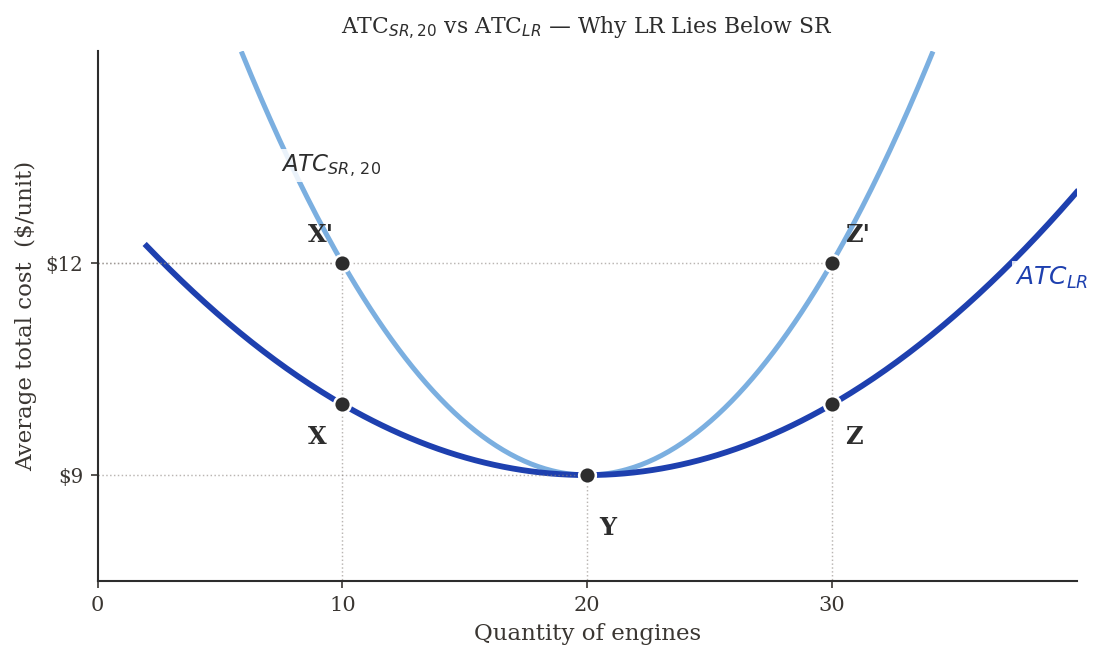
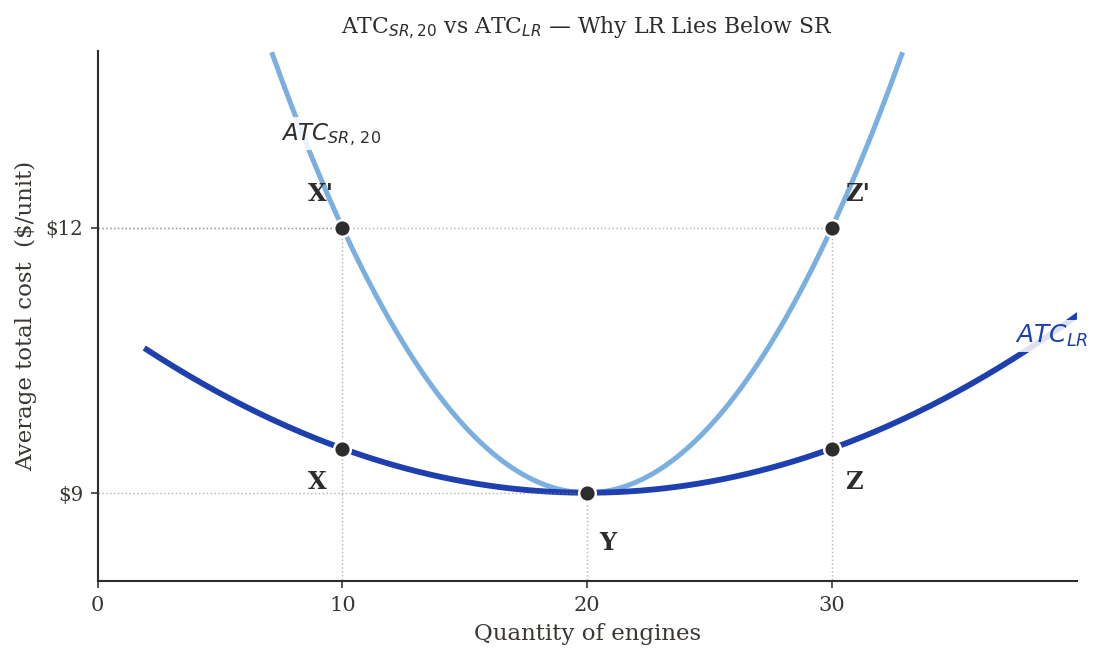
ch08: replicate Goolsbee 7.8 ATC envelope + add new 7.9 MC family slide
Unified the ATC family across slides 51 / 52 / 54 to one consistent set
of cost functions:

  ATC_LR(Q)   = 0.005·(Q - 20)^2 + 9
  ATC_SR,k(Q) = ATC_LR(k) + 0.01·(k - 20)·(Q - k) + 0.03·(Q - k)^2
  TC_LR(Q)    = 0.005·Q^3 - 0.2·Q^2 + 11·Q
  MC_LR(Q)    = 0.015·Q^2 - 0.4·Q + 11

Slide 51 (ATC_SR,20 vs ATC_LR): X / Z now at $9.5 (matching new reference).
Slide 52 (full envelope): X / Z at $9.5, X' / Z' at $12 with cleaner labels
and dashed grid at $9 / $12; ATC_LR is now the gentle U from the
textbook's Figure 7.8 reference.
NEW slide 54 (sr-lr-mc-figure): adds Figure 7.9 — three green SR-MC
curves crossing the red MC_LR at their planning Q's (10, 20, 30),
overlaid on the same ATC family. Marked points: A=(10,$8.5),
Y=(20,$9) (= ATC_LR min crossing), B=(30,$12.5).

Section count: 62 / 62 (was 61).

diff --git a/econ2316/ch08-costs-of-production/index.html b/econ2316/ch08-costs-of-production/index.html
@@ -1703,6 +1703,34 @@
   <aside class="notes">The MC analog of the previous slide. SR-MC rises steeply because of diminishing marginal product of labor (the fixed K̄ acts as a binding constraint). LR-MC rises more gently because the firm can scale BOTH inputs proportionally, sidestepping the diminishing-MP_L trap. Graphically: SR-MC curve is steeper than LR-MC, and the two cross at the firm's planning output (where the firm's K̄ matches the LR-optimal K). For Cobb-Douglas CRS, LR-MC is FLAT (constant returns); for DRS, LR-MC rises slowly; for IRS, LR-MC may even FALL.</aside>
 </section>
 
+<!-- ===== NEW — Figure 7.9: Long-Run and Short-Run Marginal Costs ===== -->
+<section id="sr-lr-mc-figure">
+  <h2><i class="fa-solid fa-chart-line" style="color: var(--accent-color);"></i> Long-Run and Short-Run Marginal Costs</h2>
+  <div style="display: grid; grid-template-columns: 1.55fr 0.95fr; gap: 16px; align-items: center;">
+    <div style="text-align: center;">
+      <img alt="Average cost and marginal cost vs quantity of engines. Light-blue U-shaped ATC_SR,10, ATC_SR,20, ATC_SR,30 curves sit above the dark-blue U-shaped ATC_LR envelope. Green U-shaped MC_SR,10, MC_SR,20, MC_SR,30 curves each rise steeply and cross the red MC_LR curve at Q = 10, 20, 30 respectively. Marked points: A at (10, $8.5) on MC_LR, Y at (20, $9) where MC_LR equals ATC_LR minimum, B at (30, $12.5) on MC_LR. Y-axis ticks at $9 and $12."
+           src="figures/fig-engines-mc-family.png"
+           class="figure" style="max-height: 440px;">
+    </div>
+    <div>
+      <p style="font-size: 12.5pt; line-height: 1.5; margin: 0 0 8px;">
+        Layered on the ATC envelope: each \(K\!\bar{}\,\) gives a SR-MC curve that <strong>crosses MC<sub>LR</sub> at its planning quantity</strong>.
+      </p>
+      <ul style="font-size: 12pt; line-height: 1.5; margin: 0 0 10px; padding-left: 22px;">
+        <li><strong>A</strong> at \((10,\,\$8.5)\) — MC<sub>LR</sub> below ATC<sub>LR</sub> on its falling stretch.</li>
+        <li><strong>Y</strong> at \((20,\,\$9)\) — MC<sub>LR</sub> crosses ATC<sub>LR</sub> at the LR-ATC <em>minimum</em>.</li>
+        <li><strong>B</strong> at \((30,\,\$12.5)\) — MC<sub>LR</sub> above ATC<sub>LR</sub> on its rising stretch.</li>
+      </ul>
+      <div class="key-result" style="background: #fef3e6; border-left-color: var(--accent-color); margin: 8px 0; padding: 8px 14px;">
+        <p style="margin: 0; font-size: 12pt; line-height: 1.45;">
+          SR-MC curves are <strong>steeper</strong> than MC<sub>LR</sub> — diminishing \(MP_L\) bites once \(\bar K\) is fixed.
+        </p>
+      </div>
+    </div>
+  </div>
+  <aside class="notes">Goolsbee Figure 7.9 — the MC analog of the ATC envelope figure on the previous slide. Light-blue SR-ATC curves and dark-blue LR-ATC are the same family from slide 52 — re-drawn here so the MC story lines up with the AC story. Green SR-MC curves are derived directly from the corresponding SR-TC functions. The red LR-MC curve is the derivative of TC_LR = 0.005·Q³ − 0.2·Q² + 11·Q, giving MC_LR(Q) = 0.015·Q² − 0.4·Q + 11. Key reading: (1) Each green SR-MC crosses the red MC_LR at its planning Q (10, 20, 30) — same place where ATC_SR,k is tangent to ATC_LR. (2) MC_LR crosses ATC_LR at Q = 20, the LR-ATC minimum (standard AC-MC relationship). (3) SR-MC is much steeper than LR-MC because in SR the firm can only adjust L (diminishing MP_L), while in LR it scales both K and L. Pedagogically the three points A, Y, B trace MC_LR's three regimes: below ATC_LR (falling stretch), tangent (min), above ATC_LR (rising stretch).</aside>
+</section>
+
 <!-- ===== Slide 28 — Gigafactory TC envelope (existing) ===== -->
 <section id="sr-lr-envelope-figure">
   <h2><i class="fa-solid fa-chart-area" style="color: var(--accent-color);"></i> The Headline Figure &mdash; LR Cost as Lower Envelope of SR Curves</h2>

diff --git a/econ2316/ch08-costs-of-production/presentation.html b/econ2316/ch08-costs-of-production/presentation.html
@@ -1703,6 +1703,34 @@
   <aside class="notes">The MC analog of the previous slide. SR-MC rises steeply because of diminishing marginal product of labor (the fixed K̄ acts as a binding constraint). LR-MC rises more gently because the firm can scale BOTH inputs proportionally, sidestepping the diminishing-MP_L trap. Graphically: SR-MC curve is steeper than LR-MC, and the two cross at the firm's planning output (where the firm's K̄ matches the LR-optimal K). For Cobb-Douglas CRS, LR-MC is FLAT (constant returns); for DRS, LR-MC rises slowly; for IRS, LR-MC may even FALL.</aside>
 </section>
 
+<!-- ===== NEW — Figure 7.9: Long-Run and Short-Run Marginal Costs ===== -->
+<section id="sr-lr-mc-figure">
+  <h2><i class="fa-solid fa-chart-line" style="color: var(--accent-color);"></i> Long-Run and Short-Run Marginal Costs</h2>
+  <div style="display: grid; grid-template-columns: 1.55fr 0.95fr; gap: 16px; align-items: center;">
+    <div style="text-align: center;">
+      <img alt="Average cost and marginal cost vs quantity of engines. Light-blue U-shaped ATC_SR,10, ATC_SR,20, ATC_SR,30 curves sit above the dark-blue U-shaped ATC_LR envelope. Green U-shaped MC_SR,10, MC_SR,20, MC_SR,30 curves each rise steeply and cross the red MC_LR curve at Q = 10, 20, 30 respectively. Marked points: A at (10, $8.5) on MC_LR, Y at (20, $9) where MC_LR equals ATC_LR minimum, B at (30, $12.5) on MC_LR. Y-axis ticks at $9 and $12."
+           src="figures/fig-engines-mc-family.png"
+           class="figure" style="max-height: 440px;">
+    </div>
+    <div>
+      <p style="font-size: 12.5pt; line-height: 1.5; margin: 0 0 8px;">
+        Layered on the ATC envelope: each \(K\!\bar{}\,\) gives a SR-MC curve that <strong>crosses MC<sub>LR</sub> at its planning quantity</strong>.
+      </p>
+      <ul style="font-size: 12pt; line-height: 1.5; margin: 0 0 10px; padding-left: 22px;">
+        <li><strong>A</strong> at \((10,\,\$8.5)\) — MC<sub>LR</sub> below ATC<sub>LR</sub> on its falling stretch.</li>
+        <li><strong>Y</strong> at \((20,\,\$9)\) — MC<sub>LR</sub> crosses ATC<sub>LR</sub> at the LR-ATC <em>minimum</em>.</li>
+        <li><strong>B</strong> at \((30,\,\$12.5)\) — MC<sub>LR</sub> above ATC<sub>LR</sub> on its rising stretch.</li>
+      </ul>
+      <div class="key-result" style="background: #fef3e6; border-left-color: var(--accent-color); margin: 8px 0; padding: 8px 14px;">
+        <p style="margin: 0; font-size: 12pt; line-height: 1.45;">
+          SR-MC curves are <strong>steeper</strong> than MC<sub>LR</sub> — diminishing \(MP_L\) bites once \(\bar K\) is fixed.
+        </p>
+      </div>
+    </div>
+  </div>
+  <aside class="notes">Goolsbee Figure 7.9 — the MC analog of the ATC envelope figure on the previous slide. Light-blue SR-ATC curves and dark-blue LR-ATC are the same family from slide 52 — re-drawn here so the MC story lines up with the AC story. Green SR-MC curves are derived directly from the corresponding SR-TC functions. The red LR-MC curve is the derivative of TC_LR = 0.005·Q³ − 0.2·Q² + 11·Q, giving MC_LR(Q) = 0.015·Q² − 0.4·Q + 11. Key reading: (1) Each green SR-MC crosses the red MC_LR at its planning Q (10, 20, 30) — same place where ATC_SR,k is tangent to ATC_LR. (2) MC_LR crosses ATC_LR at Q = 20, the LR-ATC minimum (standard AC-MC relationship). (3) SR-MC is much steeper than LR-MC because in SR the firm can only adjust L (diminishing MP_L), while in LR it scales both K and L. Pedagogically the three points A, Y, B trace MC_LR's three regimes: below ATC_LR (falling stretch), tangent (min), above ATC_LR (rising stretch).</aside>
+</section>
+
 <!-- ===== Slide 28 — Gigafactory TC envelope (existing) ===== -->
 <section id="sr-lr-envelope-figure">
   <h2><i class="fa-solid fa-chart-area" style="color: var(--accent-color);"></i> The Headline Figure &mdash; LR Cost as Lower Envelope of SR Curves</h2>
